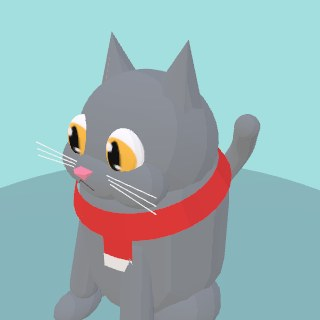
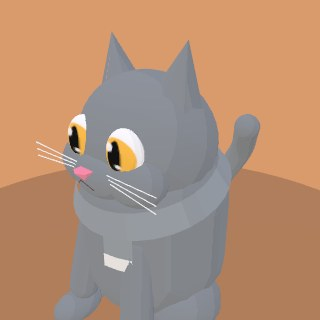
Accessory fit round 3: cowboy seat, aviator eye scoop, helmet + chef remodel, wizard revert, default colours
- Cowboy raised a touch (y-0.04) so the scalp stays inside the crown.
- Aviator skirt scoops higher (target y0.36, sharper side falloff) so the
  front clears the eye bulge while the side flaps still hang.
- Racing helmet rebuilt tighter: skull-sized lathed shell with the rim at
  the brow and the front clear of the eyes; the chin strap is now a FULL
  thin ring whose top half hides inside the shell (a half-ring left its
  cut ends poking out of the rim).
- Chef toque is ONE lathed shape: band flowing into a ballooned top with
  cos-5th pleats carved into the surface.
- Wizard hat reverted to the liked shape; the cone sits a touch lower
  with a gentler lean to seal the front-brim gap; stars stay on-surface.
- Scarf default colour is now soft grey; fish-charm collar default is
  light blue (catalog backdrops follow).

Catalog thumbnails regenerated.

Claude-Session: https://claude.ai/code/session_017fyz1DfGtQ1NoLSq3UX5Bd

diff --git a/src/models.js b/src/models.js
@@ -185,8 +185,8 @@ export const ACCESSORY_COLORS = {
   chef:       [0xf0f0f0, 0xe23b3b, 0x2f6fd6, 0xf5c518, 0x1a1a1a, 0xff5fa2, 0x37b24d, 0xa259ff, 0x8a8f98], // kitchen whites
   wizard:     [0x4b3a8f, 0x2f4a6b, 0x1a1a1a, 0x6b2f3a, 0x24614a, 0xa259ff, 0xe23b3b, 0xf5c518, 0x8a8f98], // mystic robes
   viking:     [0x8a8f98, 0x6b4a2f, 0x1a1a1a, 0xcaa472, 0x2f4a6b, 0xe23b3b, 0x37b24d, 0xf5c518, 0xf0f0f0], // norse metals
-  scarf:      [0xe23b3b, 0x3f7fd6, 0x37b24d, 0xf5c518, 0xa259ff, 0xff8c1a, 0x18b6a6, 0xff5fa2, 0x1a1a1a], // knit colours
-  charm:      [0xd23b3b, 0x2f6fd6, 0xff5fa2, 0x37b24d, 0x1a1a1a, 0xf5c518, 0xa259ff, 0x18b6a6, 0xff8c1a], // collar colours
+  scarf:      [0x9aa2a8, 0xe23b3b, 0x3f7fd6, 0x37b24d, 0xf5c518, 0xa259ff, 0xff8c1a, 0x18b6a6, 0xff5fa2], // knit colours (soft grey default)
+  charm:      [0x7fb3d9, 0xd23b3b, 0x2f6fd6, 0xff5fa2, 0x37b24d, 0x1a1a1a, 0xf5c518, 0xa259ff, 0x18b6a6], // collar colours (light blue default)
 };
 const PATTERN_ACCESSORY = {
   spotted: "cap", solid: "headphones", snowshoe: "beanie", point: "flower",
@@ -1370,9 +1370,9 @@ export function createCat(furColor = 0xf0a830, opts = {}) {
       }
     });
     const hat = new THREE.Mesh(geo, m);
-    hat.position.set(0, -0.1, 0.02); hat.scale.set(1, 1, 0.94); acc.add(hat);
+    hat.position.set(0, -0.04, 0.02); hat.scale.set(1, 1, 0.94); acc.add(hat); // low enough to sit, high enough that the scalp stays inside
     const hatband = new THREE.Mesh(new THREE.CylinderGeometry(0.52, 0.53, 0.1, 18), accMat(accColDark()));
-    hatband.position.set(0, 0.58, 0.02); hatband.scale.set(1, 1, 0.94); acc.add(hatband);  } else if (accId === "aviator") {
+    hatband.position.set(0, 0.64, 0.02); hatband.scale.set(1, 1, 0.94); acc.add(hatband);  } else if (accId === "aviator") {
     // leather flight cap — ONE lathed surface whose skirt hangs LONG at the
     // sides (the ear flaps) and lifts clear of the face and nape: the flaps
     // are part of the cap's own surface, molded, never clipping the head.
@@ -1381,10 +1381,11 @@ export function createCat(furColor = 0xf0a830, opts = {}) {
     // flaps hang OUTSIDE the cheeks instead of vanishing into them.
     const profile = [[0.8, -0.28], [0.83, 0.0], [0.78, 0.28], [0.66, 0.52], [0.46, 0.7], [0.22, 0.8], [0, 0.82]];
     const geo = latheDeform(profile, 36, (v, theta) => {
-      if (v.y < 0.28) {
-        // skirt zone: raise the front and back, leave the sides hanging as flaps
-        const side = Math.pow(Math.abs(Math.sin(theta)), 1.6);
-        v.y += (0.28 - v.y) * (1 - side) * 0.95;
+      if (v.y < 0.36) {
+        // skirt zone: scoop the front high over the eyes and the back off the
+        // nape; only a narrow arc at each side keeps hanging as the flaps
+        const side = Math.pow(Math.abs(Math.sin(theta)), 2.4);
+        v.y += (0.36 - v.y) * (1 - side);
       }
     });
     const cap = new THREE.Mesh(geo, m);
@@ -1400,45 +1401,46 @@ export function createCat(furColor = 0xf0a830, opts = {}) {
     }
     const bridge = new THREE.Mesh(rbox(0.14, 0.05, 0.05, 0.02), gm);
     bridge.position.set(0, 0.6, 0.65); bridge.rotation.x = -0.52; acc.add(bridge);  } else if (accId === "helmet") {
-    // kart racing helmet — ONE lathed shell: a low rounded dome hugging the
-    // scalp (flared lip at the rim), a slim white stripe arcing nose-to-nape,
-    // and a small upturned peak at the brow.
-    const m = new THREE.MeshStandardMaterial({ color: accCol, roughness: 0.35, side: THREE.DoubleSide });
-    const profile = [[0.72, 0.24], [0.75, 0.32], [0.72, 0.48], [0.6, 0.66], [0.4, 0.79], [0.2, 0.85], [0, 0.87]];
+    // kart racing helmet — ONE lathed shell sized to the skull (rim at the
+    // brow, front clear of the eye bulge), a slim stripe tucked into the
+    // crown, a small peak, and a chin strap that's a FULL thin ring — its top
+    // half hides inside the shell so only the under-jaw arc shows (half-rings
+    // left their cut ends poking out of the rim).
+    const m = new THREE.MeshStandardMaterial({ color: accCol, roughness: 0.5, side: THREE.DoubleSide });
+    const profile = [[0.68, 0.26], [0.71, 0.34], [0.68, 0.5], [0.56, 0.68], [0.38, 0.8], [0.18, 0.86], [0, 0.88]];
     const shell = new THREE.Mesh(latheDeform(profile, 36), m);
-    shell.position.set(0, 0.14, 0.03); shell.scale.set(1.1, 0.98, 1.04); acc.add(shell); // raised: rim sits at the brow, not over the eyes
-    const stripe = new THREE.Mesh(new THREE.TorusGeometry(0.76, 0.045, 8, 24, Math.PI), accMat(0xf0f0f0, 0.4));
+    shell.position.set(0, 0.12, 0.0); shell.scale.set(1.18, 0.95, 1.12); acc.add(shell);
+    const stripe = new THREE.Mesh(new THREE.TorusGeometry(0.66, 0.04, 8, 24, Math.PI), accMat(0xf0f0f0, 0.4));
     stripe.rotation.y = -Math.PI / 2; // arc runs nose-to-nape over the dome
-    stripe.position.set(0, 0.26, 0.03); stripe.scale.set(1, 0.88, 1.0); acc.add(stripe); // ends tuck INSIDE the shell rim
+    stripe.position.set(0, 0.14, 0.0); stripe.scale.set(1, 0.9, 1.1); acc.add(stripe);
     const peak = new THREE.Mesh(rbox(0.56, 0.05, 0.3, 0.04), accMat(0x1a1f26, 0.3, 0.3));
-    peak.position.set(0, 0.52, 0.76); peak.rotation.x = -0.28; acc.add(peak);
-    // chin strap: a half-ring hanging from the helmet sides under the jaw
-    const strap = new THREE.Mesh(new THREE.TorusGeometry(0.58, 0.035, 6, 22, Math.PI), accMat(0x3a3f46, 0.5));
-    strap.rotation.z = Math.PI; // bottom half of the ring
-    strap.position.set(0, 0.2, 0.32); strap.scale.set(1.18, 1.0, 1); acc.add(strap);  } else if (accId === "chef") {
-    // toque — the original band-plus-cloud proportions, scaled up a touch
-    // (the first pass looked right, just small)
-    const m = accMat(accCol, 0.85);
-    const band = new THREE.Mesh(new THREE.CylinderGeometry(0.53, 0.53, 0.3, 18), m);
-    band.position.set(0, 0.62, 0.02); acc.add(band); // slimmer + higher so it rides between the ears
-    const puff = new THREE.Mesh(new THREE.SphereGeometry(0.52, 14, 12), m);
-    puff.position.set(0, 1.0, 0.02); puff.scale.set(1, 0.75, 1); acc.add(puff);
-    for (let i = 0; i < 4; i++) {
-      const a = (i / 4) * Math.PI * 2 + 0.5;
-      const lobe = new THREE.Mesh(new THREE.SphereGeometry(0.24, 10, 10), m);
-      lobe.position.set(Math.sin(a) * 0.35, 1.06, Math.cos(a) * 0.35 + 0.02); acc.add(lobe);
-    }  } else if (accId === "wizard") {
+    peak.position.set(0, 0.5, 0.74); peak.rotation.x = -0.25; acc.add(peak);
+    const strap = new THREE.Mesh(new THREE.TorusGeometry(0.6, 0.028, 6, 24), accMat(0x3a3f46, 0.5));
+    strap.position.set(0, 0.2, 0.32); strap.scale.set(1.12, 1.0, 1); acc.add(strap);  } else if (accId === "chef") {
+    // toque — ONE lathed shape: straight band flowing into a puffy ballooned
+    // top, with vertical PLEATS (a gentle cos-5θ scallop) carved into the
+    // puff's own surface — a molded chef's hat, not a ball on a tube.
+    const m = new THREE.MeshStandardMaterial({ color: accCol, roughness: 0.85, side: THREE.DoubleSide });
+    const profile = [[0.53, 0.45], [0.55, 0.62], [0.54, 0.74], [0.63, 0.84], [0.67, 1.0], [0.6, 1.16], [0.44, 1.28], [0.22, 1.34], [0, 1.36]];
+    const geo = latheDeform(profile, 40, (v, theta) => {
+      if (v.y > 0.78) {
+        // pleat the puff; fade the scallop in above the band
+        const k = Math.min(1, (v.y - 0.78) / 0.15) * 0.045;
+        const s = 1 + k * Math.cos(5 * theta);
+        v.x *= s; v.z *= s;
+      }
+    });
+    const hat = new THREE.Mesh(geo, m);
+    hat.position.set(0, 0.14, 0.02); acc.add(hat);  } else if (accId === "wizard") {
     // tall pointed hat, perched a bit higher so its brim rides the crown of
     // the head clear of the ears and scalp
     const m = accMat(accCol, 0.75);
     const brim = new THREE.Mesh(new THREE.CylinderGeometry(0.78, 0.78, 0.06, 20), m);
     brim.position.set(0, 0.6, 0.02); acc.add(brim);
+    // The cone's slight back-tilt would open a gap over the front brim, so it
+    // sits a touch lower with a gentler lean — same look, sealed junction.
     const cone = new THREE.Mesh(new THREE.ConeGeometry(0.5, 1.15, 16), m);
-    cone.position.set(0, 1.15, 0); cone.rotation.x = -0.06; acc.add(cone);
-    // hat band covers the cone/brim junction (the tilt otherwise opens a gap
-    // at the front)
-    const wband = new THREE.Mesh(new THREE.CylinderGeometry(0.48, 0.5, 0.14, 16), accMat(accColDark()));
-    wband.position.set(0, 0.67, 0.01); acc.add(wband);
+    cone.position.set(0, 1.14, -0.01); cone.rotation.x = -0.07; acc.add(cone);
     // stars sit half-embedded ON the cone's own surface (its radius tapers
     // from 0.5 at the base y0.575 to 0 at the tip y1.725)
     const star1 = new THREE.Mesh(new THREE.SphereGeometry(0.05, 8, 8), accMat(0xf5c518, 0.4, 0.4));
